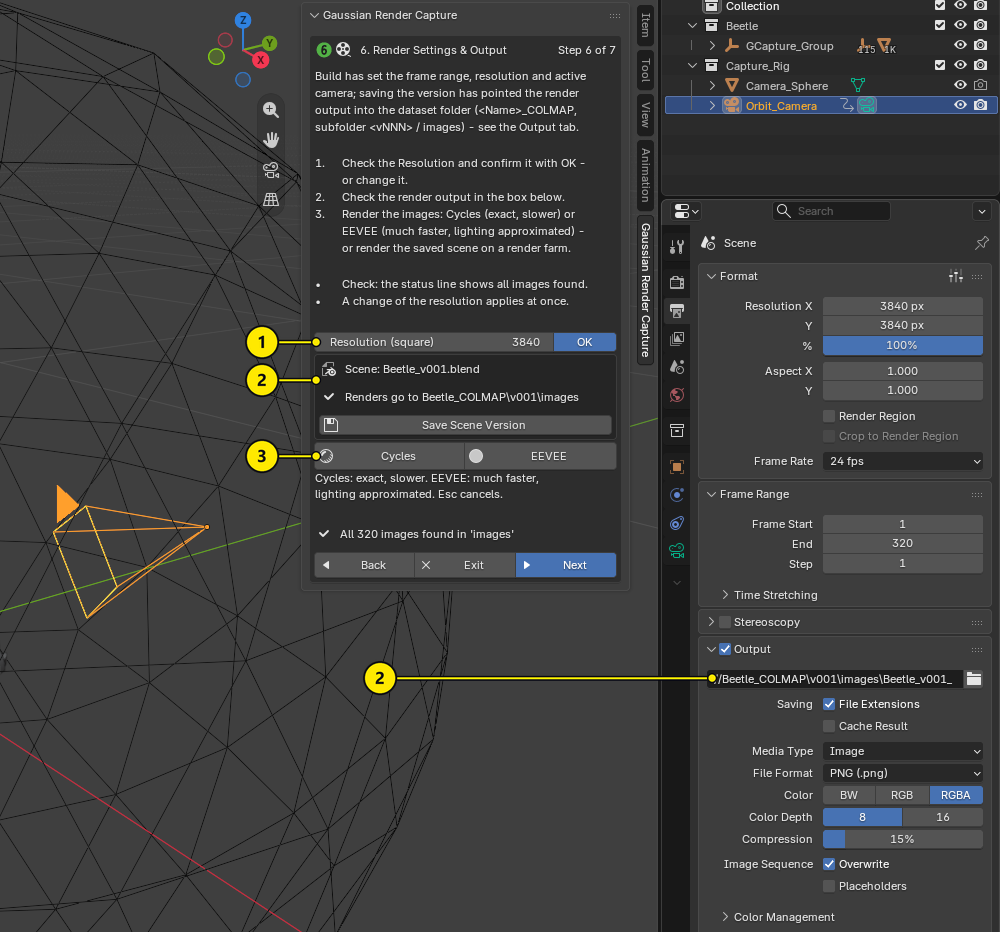
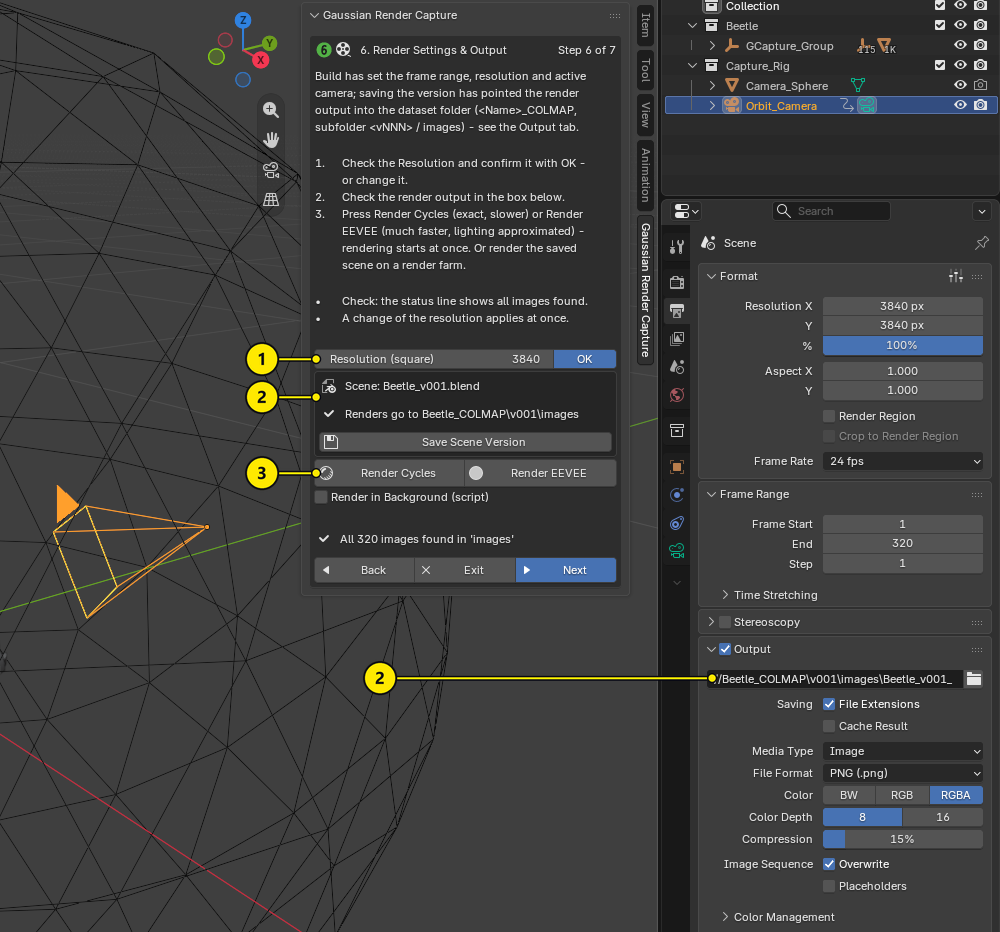
Render buttons say what they do; headless render script
Claude-Session: https://claude.ai/code/session_01BUSUMthGLNrrzG6UXMJPox

Changed region(s): [[0.248, 0.2178, 0.62, 0.6223]]

diff --git a/gaussian_capture.py b/gaussian_capture.py
@@ -60,6 +60,7 @@ import bpy
 import bmesh
 import os
 import shutil
+import sys
 import re
 import math
 import time
@@ -525,6 +526,21 @@ class GCAPTURE_Settings(PropertyGroup):
                     "center (no views from below). Saves frames; good for "
                     "objects on a ground/water plane",
         default=False,
+    )
+    render_headless: BoolProperty(
+        name="Render in Background (script)",
+        description="Cycles / EEVEE save the scene and write a script next "
+                    "to it instead of rendering here. Double-click the script "
+                    "to render all cameras without Blender's interface - "
+                    "Blender stays free, and the render goes on when Blender "
+                    "is closed",
+        default=False,
+    )
+    render_script: StringProperty(
+        name="Render Script",
+        description="Last headless render script written",
+        default="",
+        subtype='FILE_PATH',
     )
     sph_set_as_guide: BoolProperty(
         name="Build Cameras on This Sphere",
@@ -3160,11 +3176,29 @@ class GCAPTURE_OT_render_images(Operator):
             os.makedirs(out, exist_ok=True)
         return None
 
+    def _write_script(self, context):
+        """Szene speichern, daneben ein Skript fuer das Rendern ohne
+        Oberflaeche schreiben (v1.1.5). Rueckgabe: Pfad des Skripts."""
+        scene = context.scene
+        dtype = None
+        if self.engine == 'CYCLES':
+            dtype, _ = _gcapture_setup_gpu()
+        bpy.ops.wm.save_mainfile()
+        path = _gcapture_write_render_script(
+            bpy.data.filepath, self.engine, dtype, bpy.app.binary_path)
+        scene.gcapture_settings.render_script = path
+        return path
+
     def invoke(self, context, event):
         err = self._prepare(context)
         if err:
             self.report({'ERROR'}, err)
             return {'CANCELLED'}
+        if context.scene.gcapture_settings.render_headless:
+            path = self._write_script(context)
+            self.report({'INFO'}, "Scene saved; double-click %s to render"
+                        % os.path.basename(path))
+            return {'FINISHED'}
         # Blenders Renderfenster mit Fortschritt; Esc bricht ab.
         bpy.ops.render.render('INVOKE_DEFAULT', animation=True)
         return {'FINISHED'}
@@ -3174,8 +3208,53 @@ class GCAPTURE_OT_render_images(Operator):
         if err:
             self.report({'ERROR'}, err)
             return {'CANCELLED'}
+        if context.scene.gcapture_settings.render_headless:
+            self._write_script(context)
+            return {'FINISHED'}
         bpy.ops.render.render(animation=True)
         return {'FINISHED'}
+
+
+def _gcapture_write_render_script(blend, engine, dtype, blender):
+    """Doppelklick-Skript neben der Szene: rendert alle Frames im Hintergrund
+    mit derselben Blender-Version. Windows .cmd, macOS .command, sonst .sh."""
+    folder, name = os.path.split(blend)
+    stem = os.path.splitext(name)[0]
+    eng = "cycles" if engine == 'CYCLES' else "eevee"
+    tail = ["--", "--cycles-device", dtype] if (engine == 'CYCLES' and dtype) else []
+    if sys.platform.startswith("win"):
+        path = os.path.join(folder, "%s_render_%s.cmd" % (stem, eng))
+        args = " ".join(tail)
+
+        def q(s):
+            return '"%s"' % s.replace("%", "%%")
+        text = "\r\n".join([
+            "@echo off",
+            "rem Gaussian Render Capture - headless render of %s (%s)" % (name, eng),
+            "rem Renders every camera into the dataset folder. Close this window to cancel.",
+            'cd /d "%~dp0"',
+            "%s -b %s -a %s" % (q(blender), q(name), args),
+            "echo.",
+            "echo Finished - press any key to close.",
+            "pause > nul",
+            ""])
+        with open(path, "w", encoding="utf-8", newline="") as f:
+            f.write(text)
+    else:
+        ext = "command" if sys.platform == "darwin" else "sh"
+        path = os.path.join(folder, "%s_render_%s.%s" % (stem, eng, ext))
+        import shlex
+        text = "\n".join([
+            "#!/bin/sh",
+            "# Gaussian Render Capture - headless render of %s (%s)" % (name, eng),
+            "# Renders every camera into the dataset folder. Ctrl+C cancels.",
+            'cd "$(dirname "$0")"',
+            " ".join([shlex.quote(blender), "-b", shlex.quote(name), "-a"] + tail),
+            ""])
+        with open(path, "w", encoding="utf-8", newline="\n") as f:
+            f.write(text)
+        os.chmod(path, 0o755)
+    return path
 
 
 class GCAPTURE_OT_confirm_resolution(Operator):
@@ -3681,16 +3760,20 @@ def _gcapture_draw_render(layout, context):
     rcol.enabled = bool(bpy.data.filepath)
     row = rcol.row(align=True)
     row.scale_y = 1.4
-    op = row.operator("gcapture.render_images", text="Cycles",
-                      icon='SHADING_RENDERED', depress=pending and not eevee)
+    # Beschriftung sagt, was der Klick tut: rendern oder Skript schreiben.
+    verb = "Script" if s.render_headless else "Render"
+    op = row.operator("gcapture.render_images", text="%s Cycles" % verb,
+                      icon='CONSOLE' if s.render_headless else 'SHADING_RENDERED',
+                      depress=pending and not eevee)
     op.engine = 'CYCLES'
-    op = row.operator("gcapture.render_images", text="EEVEE",
-                      icon='SHADING_SOLID', depress=pending and eevee)
+    op = row.operator("gcapture.render_images", text="%s EEVEE" % verb,
+                      icon='CONSOLE' if s.render_headless else 'SHADING_SOLID',
+                      depress=pending and eevee)
     op.engine = 'EEVEE'
-    hint = rcol.column(align=True)
-    hint.scale_y = 0.8
-    hint.label(text="Cycles: exact, slower. EEVEE: much faster,")
-    hint.label(text="lighting approximated. Esc cancels.")
+    rcol.prop(s, "render_headless")
+    if s.render_headless and s.render_script:
+        rcol.label(text="Double-click: %s" % os.path.basename(s.render_script),
+                   icon='CONSOLE')
     if not s.wt_active:
         layout.label(text="Render farm: render the saved scene there.",
                      icon='INFO')
@@ -4043,9 +4126,9 @@ _GCAPTURE_WT_STEPS = [
          steps=["Check the Resolution and confirm it with OK - or change "
                 "it.",
                 "Check the render output in the box below.",
-                "Render the images: Cycles (exact, slower) or EEVEE (much "
-                "faster, lighting approximated) - or render the saved scene "
-                "on a render farm."],
+                "Press Render Cycles (exact, slower) or Render EEVEE (much "
+                "faster, lighting approximated) - rendering starts at once. "
+                "Or render the saved scene on a render farm."],
          check="the status line shows all images found.",
          note=["A change of the resolution applies at once."]),
     dict(title="7. COLMAP Export", badge='gcapture_6', icon='EXPORT',

diff --git a/docs/REFERENCE.md b/docs/REFERENCE.md
@@ -57,8 +57,9 @@ preset off when you render into a folder of your own.
 | Setting | Default | What it does |
 |---|---|---|
 | Resolution (square) | 1000 | Render resolution in pixels, width = height; applied at once. Confirm once with **OK**. |
-| **Cycles** | – | Renders one image per camera into the dataset with Cycles on the GPU and the settings of *Prepare Scene*. Exact, slower. |
-| **EEVEE** | – | The same with EEVEE: much faster, lighting approximated. The first time it applies a capture preset (256 samples, ray tracing and fast GI at full resolution, soft shadows, overscan); your later changes are kept. |
+| **Render Cycles** | – | Starts rendering: one image per camera into the dataset with Cycles on the GPU and the settings of *Prepare Scene*. Exact, slower. |
+| **Render EEVEE** | – | The same with EEVEE: much faster, lighting approximated. The first time it applies a capture preset (256 samples, ray tracing and fast GI at full resolution, soft shadows, overscan); your later changes are kept. |
+| Render in Background (script) | off | The buttons read *Script Cycles* / *Script EEVEE*: they save the scene and write a double-click script next to it (`<Scene>_render_cycles.cmd` / `_eevee`; `.command` on macOS, `.sh` on Linux) that renders headless with the same Blender version. |
 
 Under *Advanced → Render Setup* (keep on for a capture): Step per Frame (constant keyframes), Set as
 Active Camera, Set Scene Frame Range, Set Render Resolution. They apply at once and on every Build.

diff --git a/CHANGELOG.md b/CHANGELOG.md
@@ -9,9 +9,12 @@ documentation changes are not.
 
 - *Build Camera Animation* sizes the camera in the viewport to the sphere (10 % of its radius)
   instead of Blender's 1 m, which hid small models – unless you changed the size yourself.
-- Step 6 renders the images itself: **Cycles** (exact path tracing, settings of *Prepare Scene*)
-  or **EEVEE** (much faster, lighting approximated; a capture preset is applied once – ray tracing
+- Step 6 renders the images itself: **Render Cycles** (exact path tracing, settings of *Prepare Scene*)
+  or **Render EEVEE** (much faster, lighting approximated; a capture preset is applied once – ray tracing
   and fast GI at full resolution, soft shadows, overscan, 256 samples). Esc cancels.
+- *Render in Background (script)*: instead of rendering in Blender, the buttons save the scene and
+  write a double-click script next to it that renders headless with the same Blender version
+  (`.cmd` on Windows, `.command` on macOS, `.sh` on Linux).
 - Blender 4.1 with OptiX: Cycles denoises with OptiX – OpenImageDenoise fails there on systems
   with a current Intel graphics driver.
 

diff --git a/docs/TUTORIAL.md b/docs/TUTORIAL.md
@@ -209,9 +209,14 @@ adjustments – the panel shows a red warning and Build asks before it does so.
 1. Check the **Resolution** and confirm it with **OK** – or change it (example: 3840 px).
 2. Check the render output: the box says `Renders go to Beetle_COLMAP\v001\images`. The guide has
    opened the **Output** tab, where you see the same path.
-3. Render the images: press **Cycles** (exact path tracing, slower) or **EEVEE** (much faster,
+3. Render the images: press **Render Cycles** (exact path tracing, slower) or **Render EEVEE** (much faster,
    lighting approximated). Blender's render window shows the progress; **Esc** cancels. On a
    render farm, render the saved scene there instead.
+
+   *Render in Background (script)*: with this option the buttons read **Script Cycles** /
+   **Script EEVEE**; they save the scene and write a
+   script next to it, e.g. `Beetle_v001_render_cycles.cmd`. Double-click it to render without
+   Blender's interface – Blender stays free, and the render goes on when you close Blender.
 
 **Check:** the status line turns green: *All 320 images found in 'images'*.
 

diff --git a/docs/QUICKSTART.md b/docs/QUICKSTART.md
@@ -13,7 +13,7 @@ The shortest way from a model to a Gaussian Splat. Each line is one click or one
 | 6 | Object on a ground: **Group & Align to Ground** – floating object: **Next** | *Grouped under 'GCapture_Group'* |
 | 7 | Subdivisions 3, **Create / Update Camera Sphere** (on a ground: *Upper Hemisphere Only*) | *Camera_Sphere: 320 cameras* |
 | 8 | **Build Camera Animation**, save as `<Name>_v001.blend` | *320 camera poses* |
-| 9 | Resolution **OK**, then **Cycles** (or **EEVEE**, faster) | *All 320 images found* |
+| 9 | Resolution **OK**, then **Render Cycles** (or **Render EEVEE**, faster) | *All 320 images found* |
 | 10 | **Export COLMAP (Postshot / LichtFeld)** | *Dataset written* |
 | 11 | Open `<Name>_COLMAP/v001` in Postshot or LichtFeld Studio and train | the splat |
 
